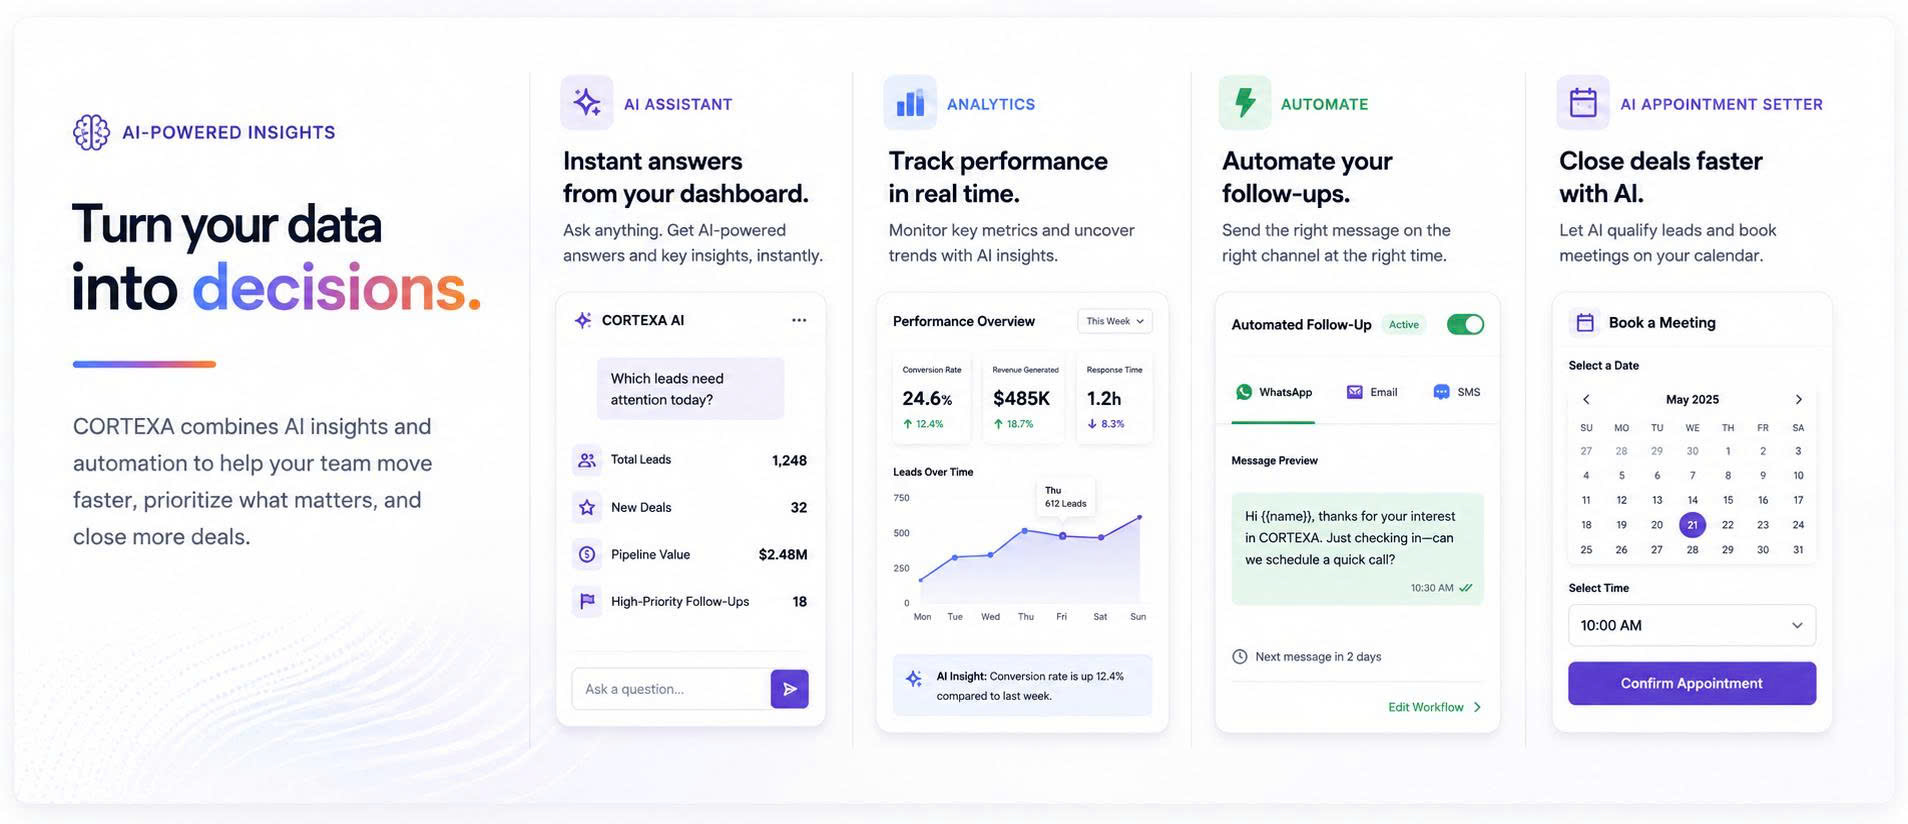
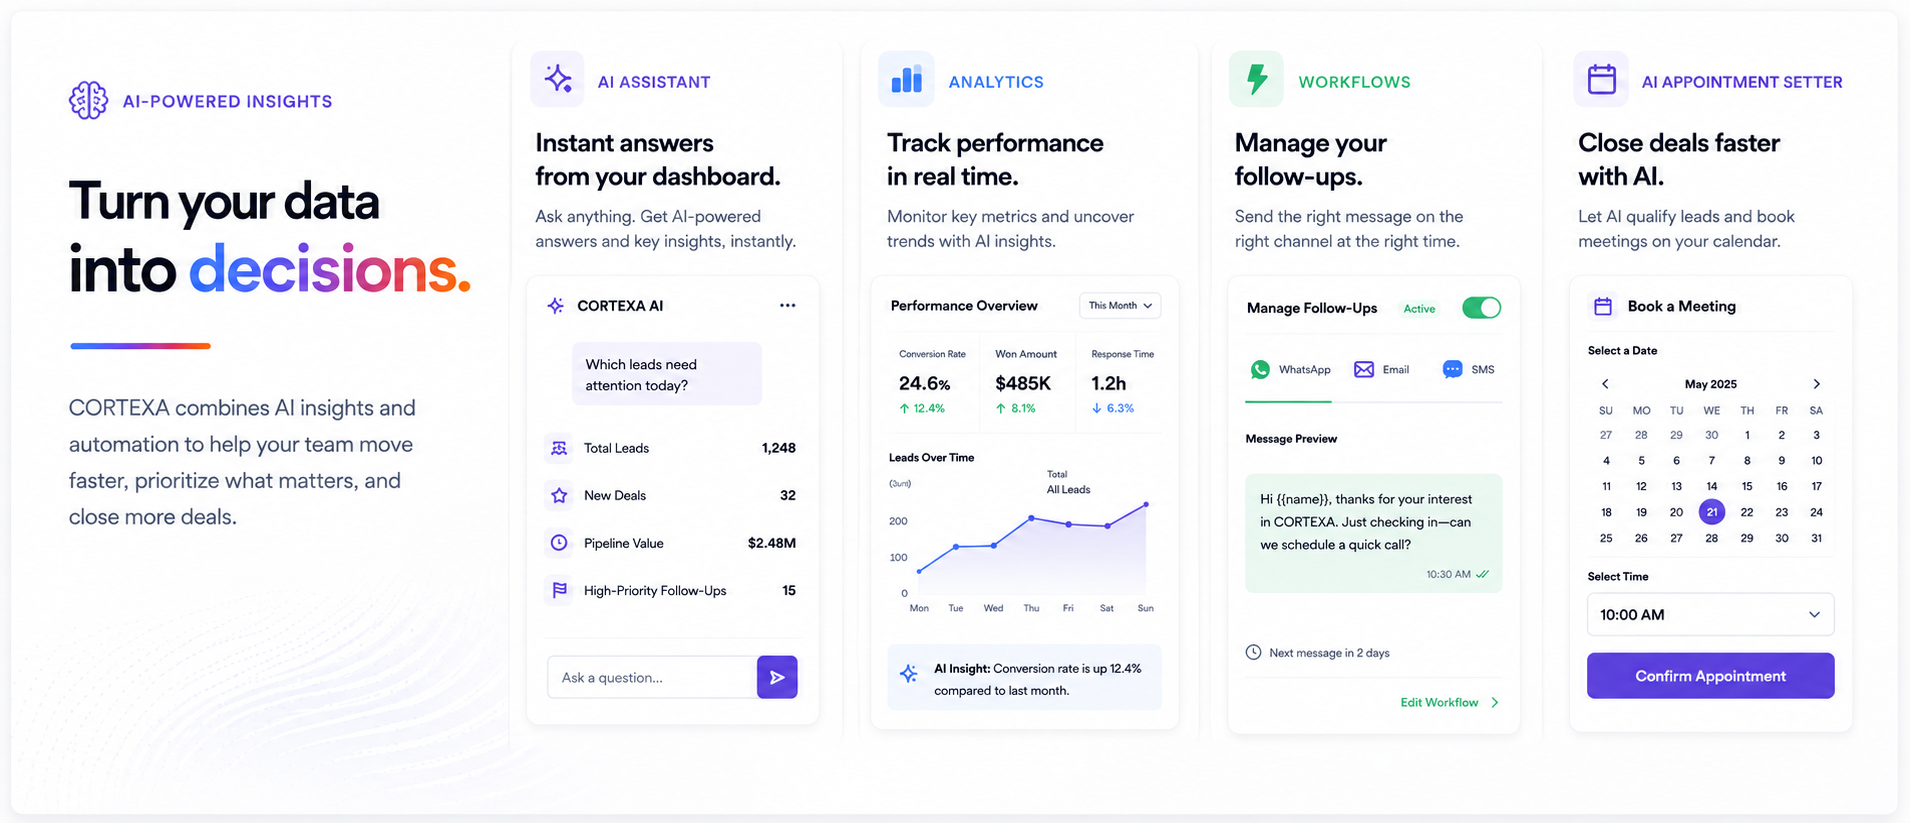
update text in landing page

diff --git a/AI-Listo/src/pages/landing/LandingDesktop.jsx b/AI-Listo/src/pages/landing/LandingDesktop.jsx
@@ -518,7 +518,7 @@ export default function Landing() {
       heroFreeForever: "Free forever.",
       heroUnlock: "Unlock potential today!",
       heroTag1: "One AI Platform. Everything Connected.",
-      heroTag2: "AI Auto Follow-Ups 24/7",
+      heroTag2: "AI-Assisted Follow-Up Workflows",
       heroTag3: "Customer Follow-Up Workflows",
       heroTag4: "Pipeline Intelligence That Closes",
       heroTag5: "WhatsApp Integration Built-in",
@@ -563,8 +563,8 @@ export default function Landing() {
           desc: "Real-time insights help you act faster and close more deals.",
         },
       ],
-      smartV2Cta: "Turn Your Business Into A Revenue Machine",
-      smartV2Bottom: "More Leads. More Appointments. More Closings.",
+      smartV2Cta: "Run Your Revenue Operation From One Place",
+      smartV2Bottom: "Manage Leads. Appointments. Deals. In One Place.",
 
       topLine1: "The simple ",
       topHighlight: "Agentic AI revenue operating system",
@@ -662,13 +662,13 @@ export default function Landing() {
       titleActive: "tools you already use",
       subtitlePre:
         "Bring your leads, messages, calendars, tasks, files, and workflows ",
-      subtitlePost: "into Cortexa and let AI handle the busy work.",
+      subtitlePost: "into Cortexa and keep your work connected in one place.",
       feature1: "Sync in minutes",
-      feature2: "Automate workflows",
+      feature2: "Manage workflows",
       feature3: "Save time every day",
       feature4: "Keep your team aligned",
       footerTextPre:
-        "Connect your apps, import your data, and automate your workflow inside Cortexa.",
+        "Connect your apps, import your data, and manage your workflow inside Cortexa.",
       footerTextPost:
         "Manage everything from one place in Apps & Integrations.",
       btnText: "See Integrations",
@@ -1023,7 +1023,7 @@ export default function Landing() {
       heroFreeForever: "Gratis para siempre.",
       heroUnlock: "¡Desbloquea tu potencial hoy!",
       heroTag1: "Una plataforma de IA. Todo conectado.",
-      heroTag2: "Seguimientos automáticos con IA 24/7",
+      heroTag2: "Flujos de seguimiento asistidos por IA",
       heroTag3: "Flujos de seguimiento de clientes",
       heroTag4: "Inteligencia de pipeline que cierra ventas",
       heroTag5: "Integración de WhatsApp incorporada",
@@ -1069,8 +1069,8 @@ export default function Landing() {
           desc: "La información en tiempo real te ayuda a actuar más rápido y cerrar más negocios.",
         },
       ],
-      smartV2Cta: "Convierte Tu Negocio En Una Máquina de Ingresos",
-      smartV2Bottom: "Más oportunidades. Más citas. Más cierres.",
+      smartV2Cta: "Gestiona toda tu operación de ingresos desde un solo lugar",
+      smartV2Bottom: "Gestiona leads. Citas. Negocios. Todo en un solo lugar.",
 
       topLine1: "El ",
       topHighlight: "Sistema operativo de ingresos para IA agéntica",
@@ -1171,13 +1171,13 @@ export default function Landing() {
       subtitlePre:
         "Lleva tus leads, mensajes, calendarios, tareas, archivos y flujos de trabajo ",
       subtitlePost:
-        "a Cortexa y deja que la IA se encargue del trabajo pesado.",
+        "en Cortexa y mantén tu trabajo conectado en un solo lugar.",
       feature1: "Sincroniza en minutos",
-      feature2: "Automatiza flujos de trabajo",
+      feature2: "Gestiona tus flujos de trabajo",
       feature3: "Ahorra tiempo cada día",
       feature4: "Mantén a tu equipo alineado",
       footerTextPre:
-        "Conecta tus apps, importa tus datos y automatiza tu flujo de trabajo dentro de Cortexa.",
+        "Conecta tus aplicaciones, importa tus datos y gestiona tu flujo de trabajo dentro de Cortexa.",
       footerTextPost:
         "Gestiona todo desde un solo lugar en Apps e Integraciones.",
       btnText: "Ver Integraciones",
@@ -1500,7 +1500,7 @@ export default function Landing() {
       heroFreeForever: "Grátis para sempre.",
       heroUnlock: "Desbloqueie seu potencial hoje!",
       heroTag1: "Uma plataforma de IA. Tudo conectado.",
-      heroTag2: "Acompanhamentos automáticos com IA 24/7",
+      heroTag2: "Fluxos de acompanhamento assistidos por IA",
       heroTag3: "Fluxos de acompanhamento de clientes",
       heroTag4: "Inteligência de pipeline que fecha negócios",
       heroTag5: "Integração nativa com WhatsApp",
@@ -1546,8 +1546,8 @@ export default function Landing() {
           desc: "Insights em tempo real ajudam você a agir mais rápido e fechar mais negócios.",
         },
       ],
-      smartV2Cta: "Transforme Seu Negócio Em Uma Máquina de Receita",
-      smartV2Bottom: "Mais leads. Mais agendamentos. Mais fechamentos.",
+      smartV2Cta: "Gerencie toda a sua operação de receita em um só lugar",
+      smartV2Bottom: "Gerencie leads. Agendamentos. Negócios. Tudo em um só lugar.",
 
       topLine1: "O ",
       topHighlight: "Sistema operacional de receita para IA agêntica",
@@ -1646,13 +1646,13 @@ export default function Landing() {
       titleActive: "ferramentas que você já usa",
       subtitlePre:
         "Traga seus leads, mensagens, calendários, tarefas, arquivos e fluxos de trabalho ",
-      subtitlePost: "para o Cortexa e deixe a IA cuidar do trabalho pesado.",
+      subtitlePost: "no Cortexa e mantenha seu trabalho conectado em um só lugar.",
       feature1: "Sincronize em minutos",
-      feature2: "Automatize fluxos de trabalho",
+      feature2: "Gerencie seus fluxos de trabalho",
       feature3: "Economize tempo todos os dias",
       feature4: "Mantenha sua equipe alinhada",
       footerTextPre:
-        "Conecte seus apps, importe seus dados e automatize seu fluxo de trabalho dentro do Cortexa.",
+        "Conecte seus aplicativos, importe seus dados e gerencie seu fluxo de trabalho dentro do Cortexa.",
       footerTextPost: "Gerencie tudo em um só lugar em Apps e Integrações.",
       btnText: "Ver Integrações",
 
